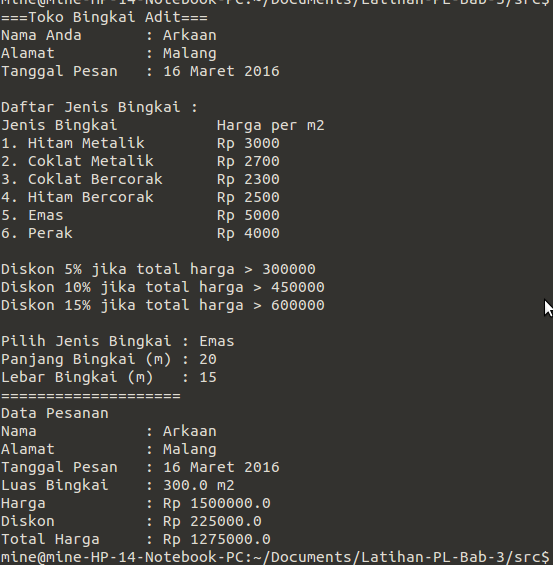
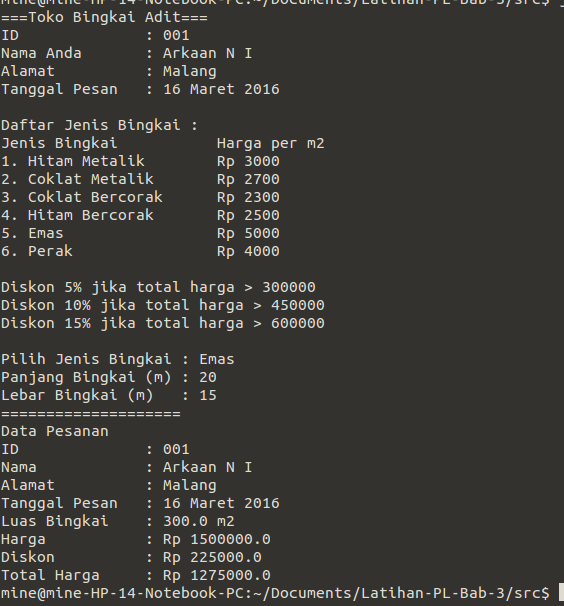
update fix

diff --git a/src/Pemesan.java b/src/Pemesan.java
@@ -1,11 +1,11 @@
 /*identifikasi
 class   : Pemesan
-atribut : nama pemesan, alamat pemesan, tanggal pemesanan
+atribut : id, nama pemesan, alamat pemesan, tanggal pemesanan
 behavior: setNama, setAlamat, setTanggal
 objek   : pemesan 1, pemesan 2,...
 */
 public class Pemesan{
-	private String namaPemesan, alamatPemesan, tanggalPesan;
+	private String idPemesan, namaPemesan, alamatPemesan, tanggalPesan;
 	
 	//default constructor
 	public Pemesan(){
@@ -14,7 +14,8 @@ public class Pemesan{
 		tanggalPesan = "";
 	}
 	//overloading constructor
-	public Pemesan(String n, String a, String t){
+	public Pemesan(String id, String n, String a, String t){
+		idPemesan = id;
 		namaPemesan = n;
 		alamatPemesan = a;
 		tanggalPesan = t;
@@ -31,6 +32,7 @@ public class Pemesan{
 	public void displayPemesan(){
 		System.out.println("====================");
 		System.out.println("Data Pesanan");
+		System.out.println("ID              : "+idPemesan);
 		System.out.println("Nama            : "+namaPemesan);
 		System.out.println("Alamat          : "+alamatPemesan);
 		System.out.println("Tanggal Pesan   : "+tanggalPesan);

diff --git a/src/MainBingkai.java b/src/MainBingkai.java
@@ -9,17 +9,19 @@ import java.util.Scanner;
 public class MainBingkai{
 	public static void main(String[] args){
 		Scanner in = new Scanner(System.in);
-		String nama, alamat, tanggal, jenis;
+		String id, nama, alamat, tanggal, jenis;
 		double panjang, lebar;
 		
 		System.out.println("===Toko Bingkai Adit===");
+		System.out.print("ID              : ");
+		id = in.nextLine();
 		System.out.print("Nama Anda       : ");
 		nama = in.nextLine();
 		System.out.print("Alamat          : ");
 		alamat = in.nextLine();
 		System.out.print("Tanggal Pesan   : ");
 		tanggal = in.nextLine();
-		Pemesan pemesan1 = new Pemesan(nama, alamat, tanggal);
+		Pemesan pemesan1 = new Pemesan(id, nama, alamat, tanggal);
 		System.out.println("\nDaftar Jenis Bingkai : ");
 		System.out.println("Jenis Bingkai\t\tHarga per m2");
 		System.out.println(Bingkai.displayBingkai());
